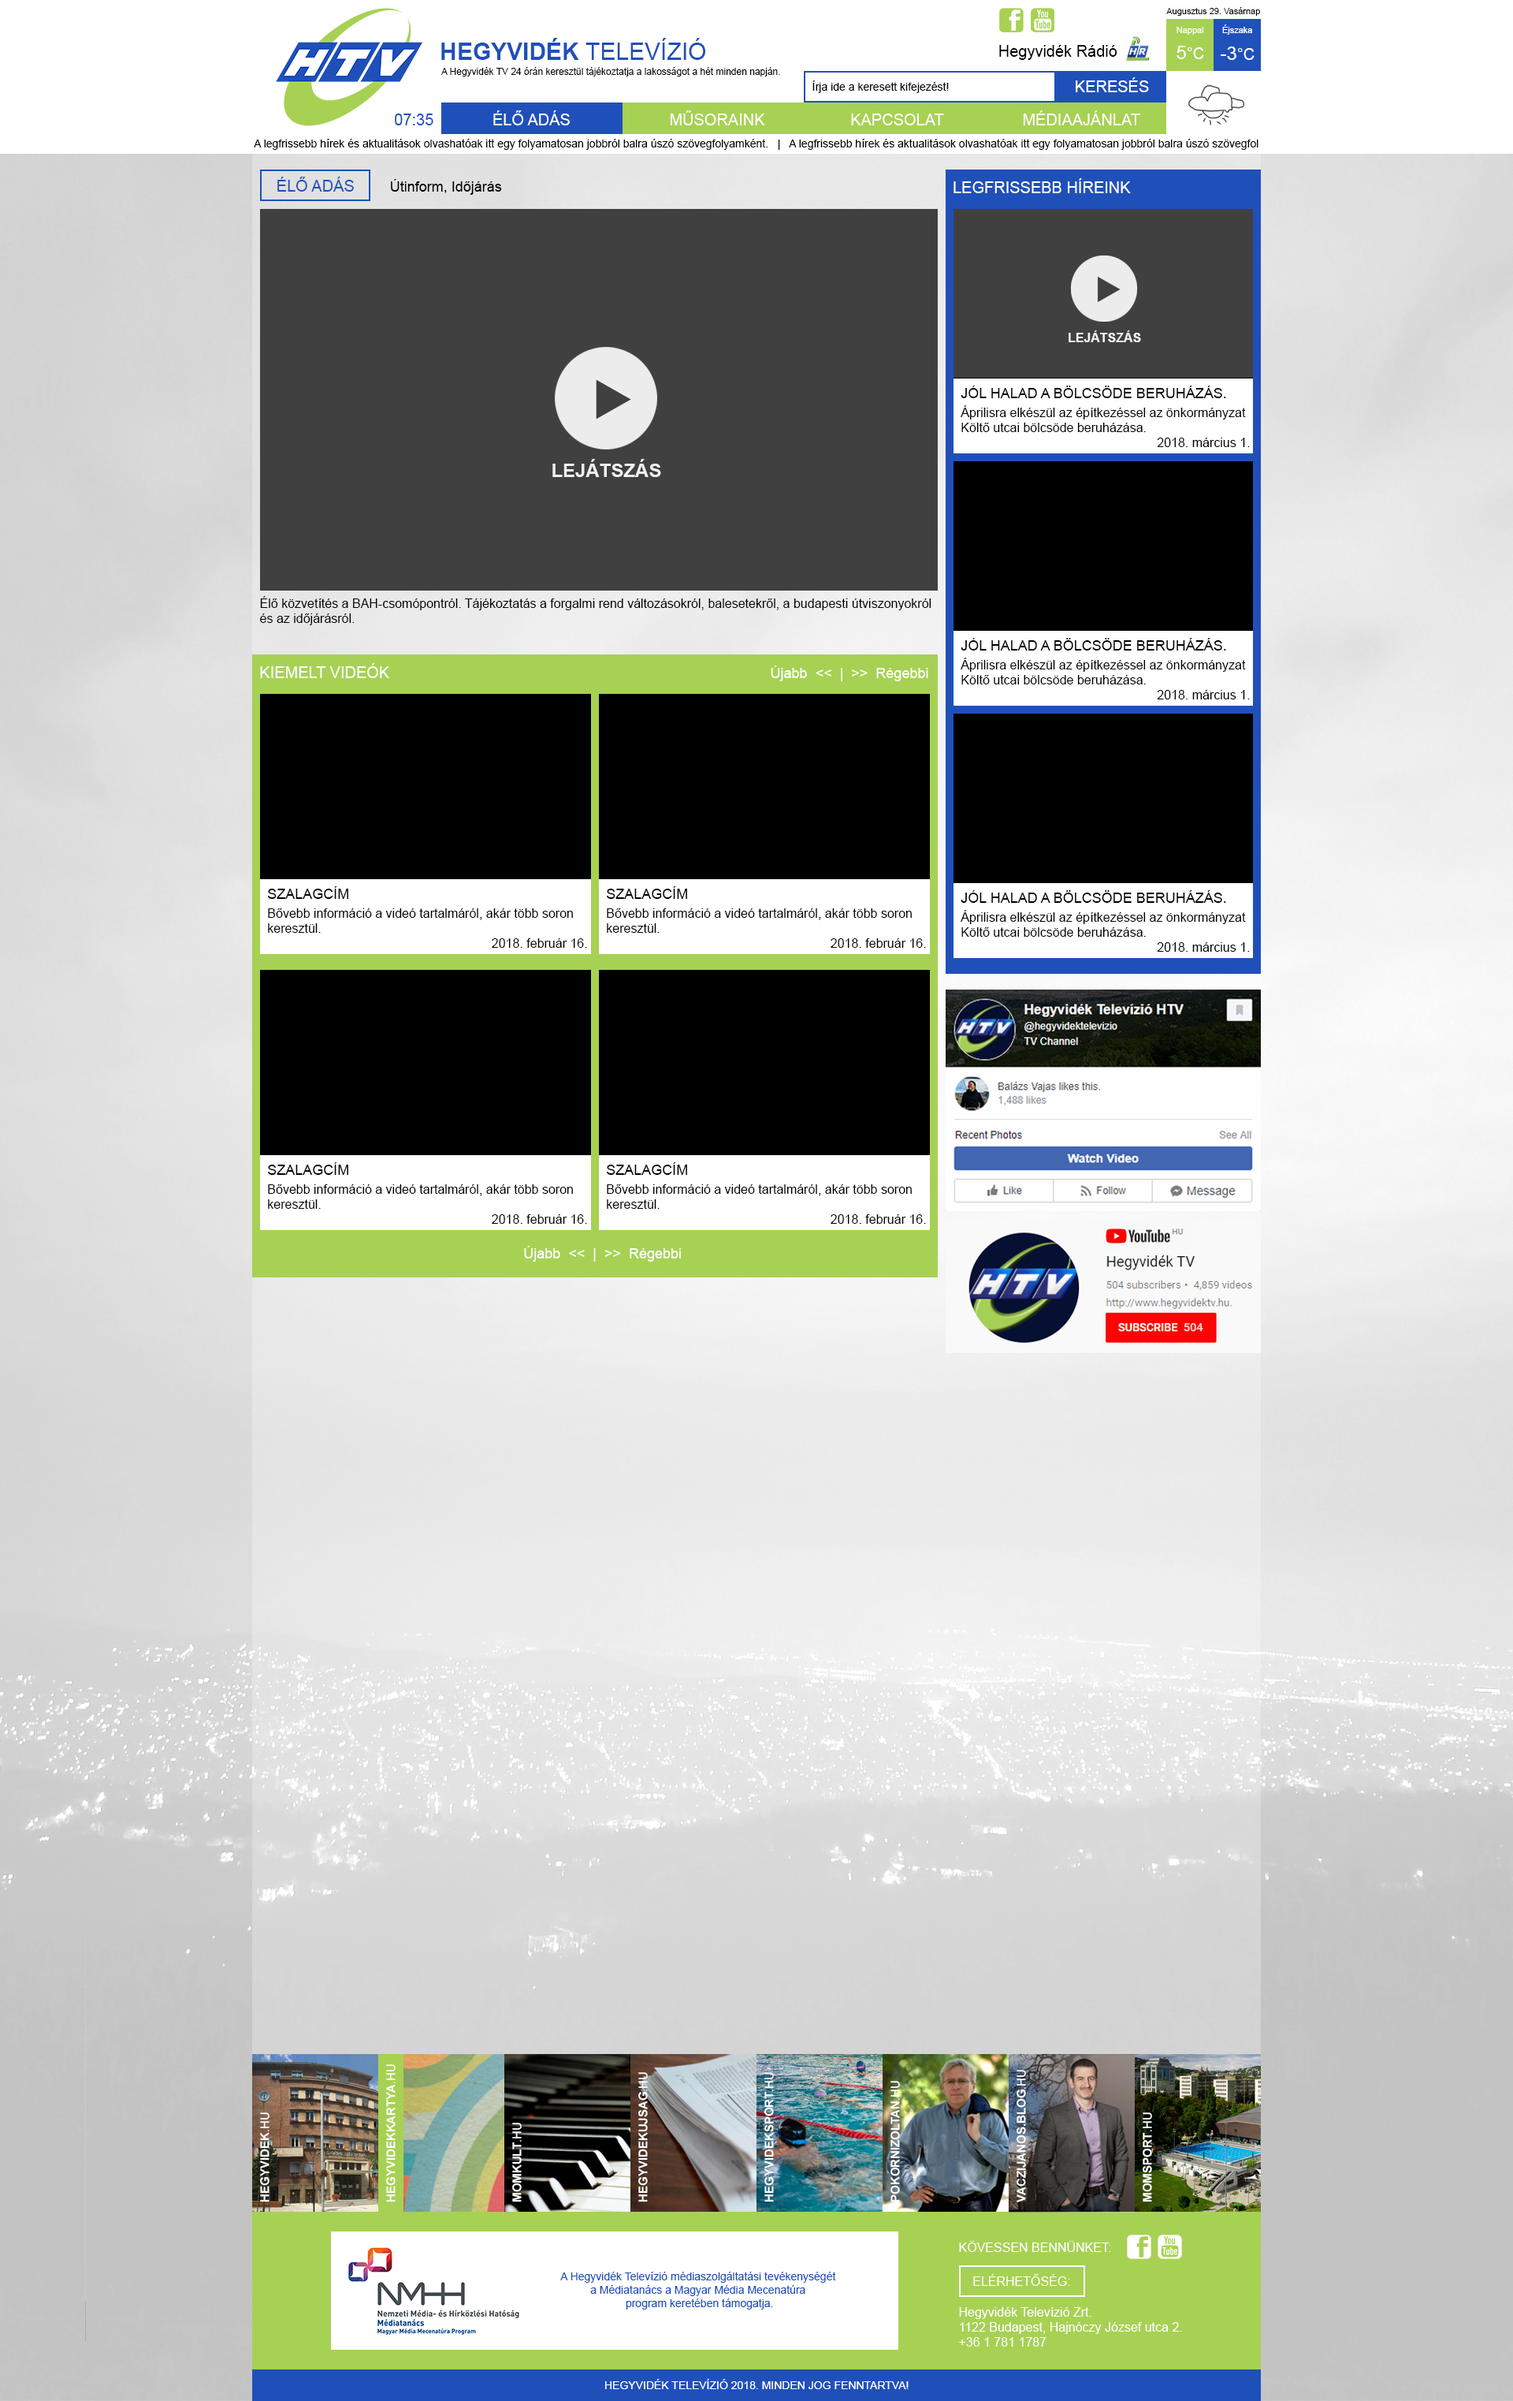
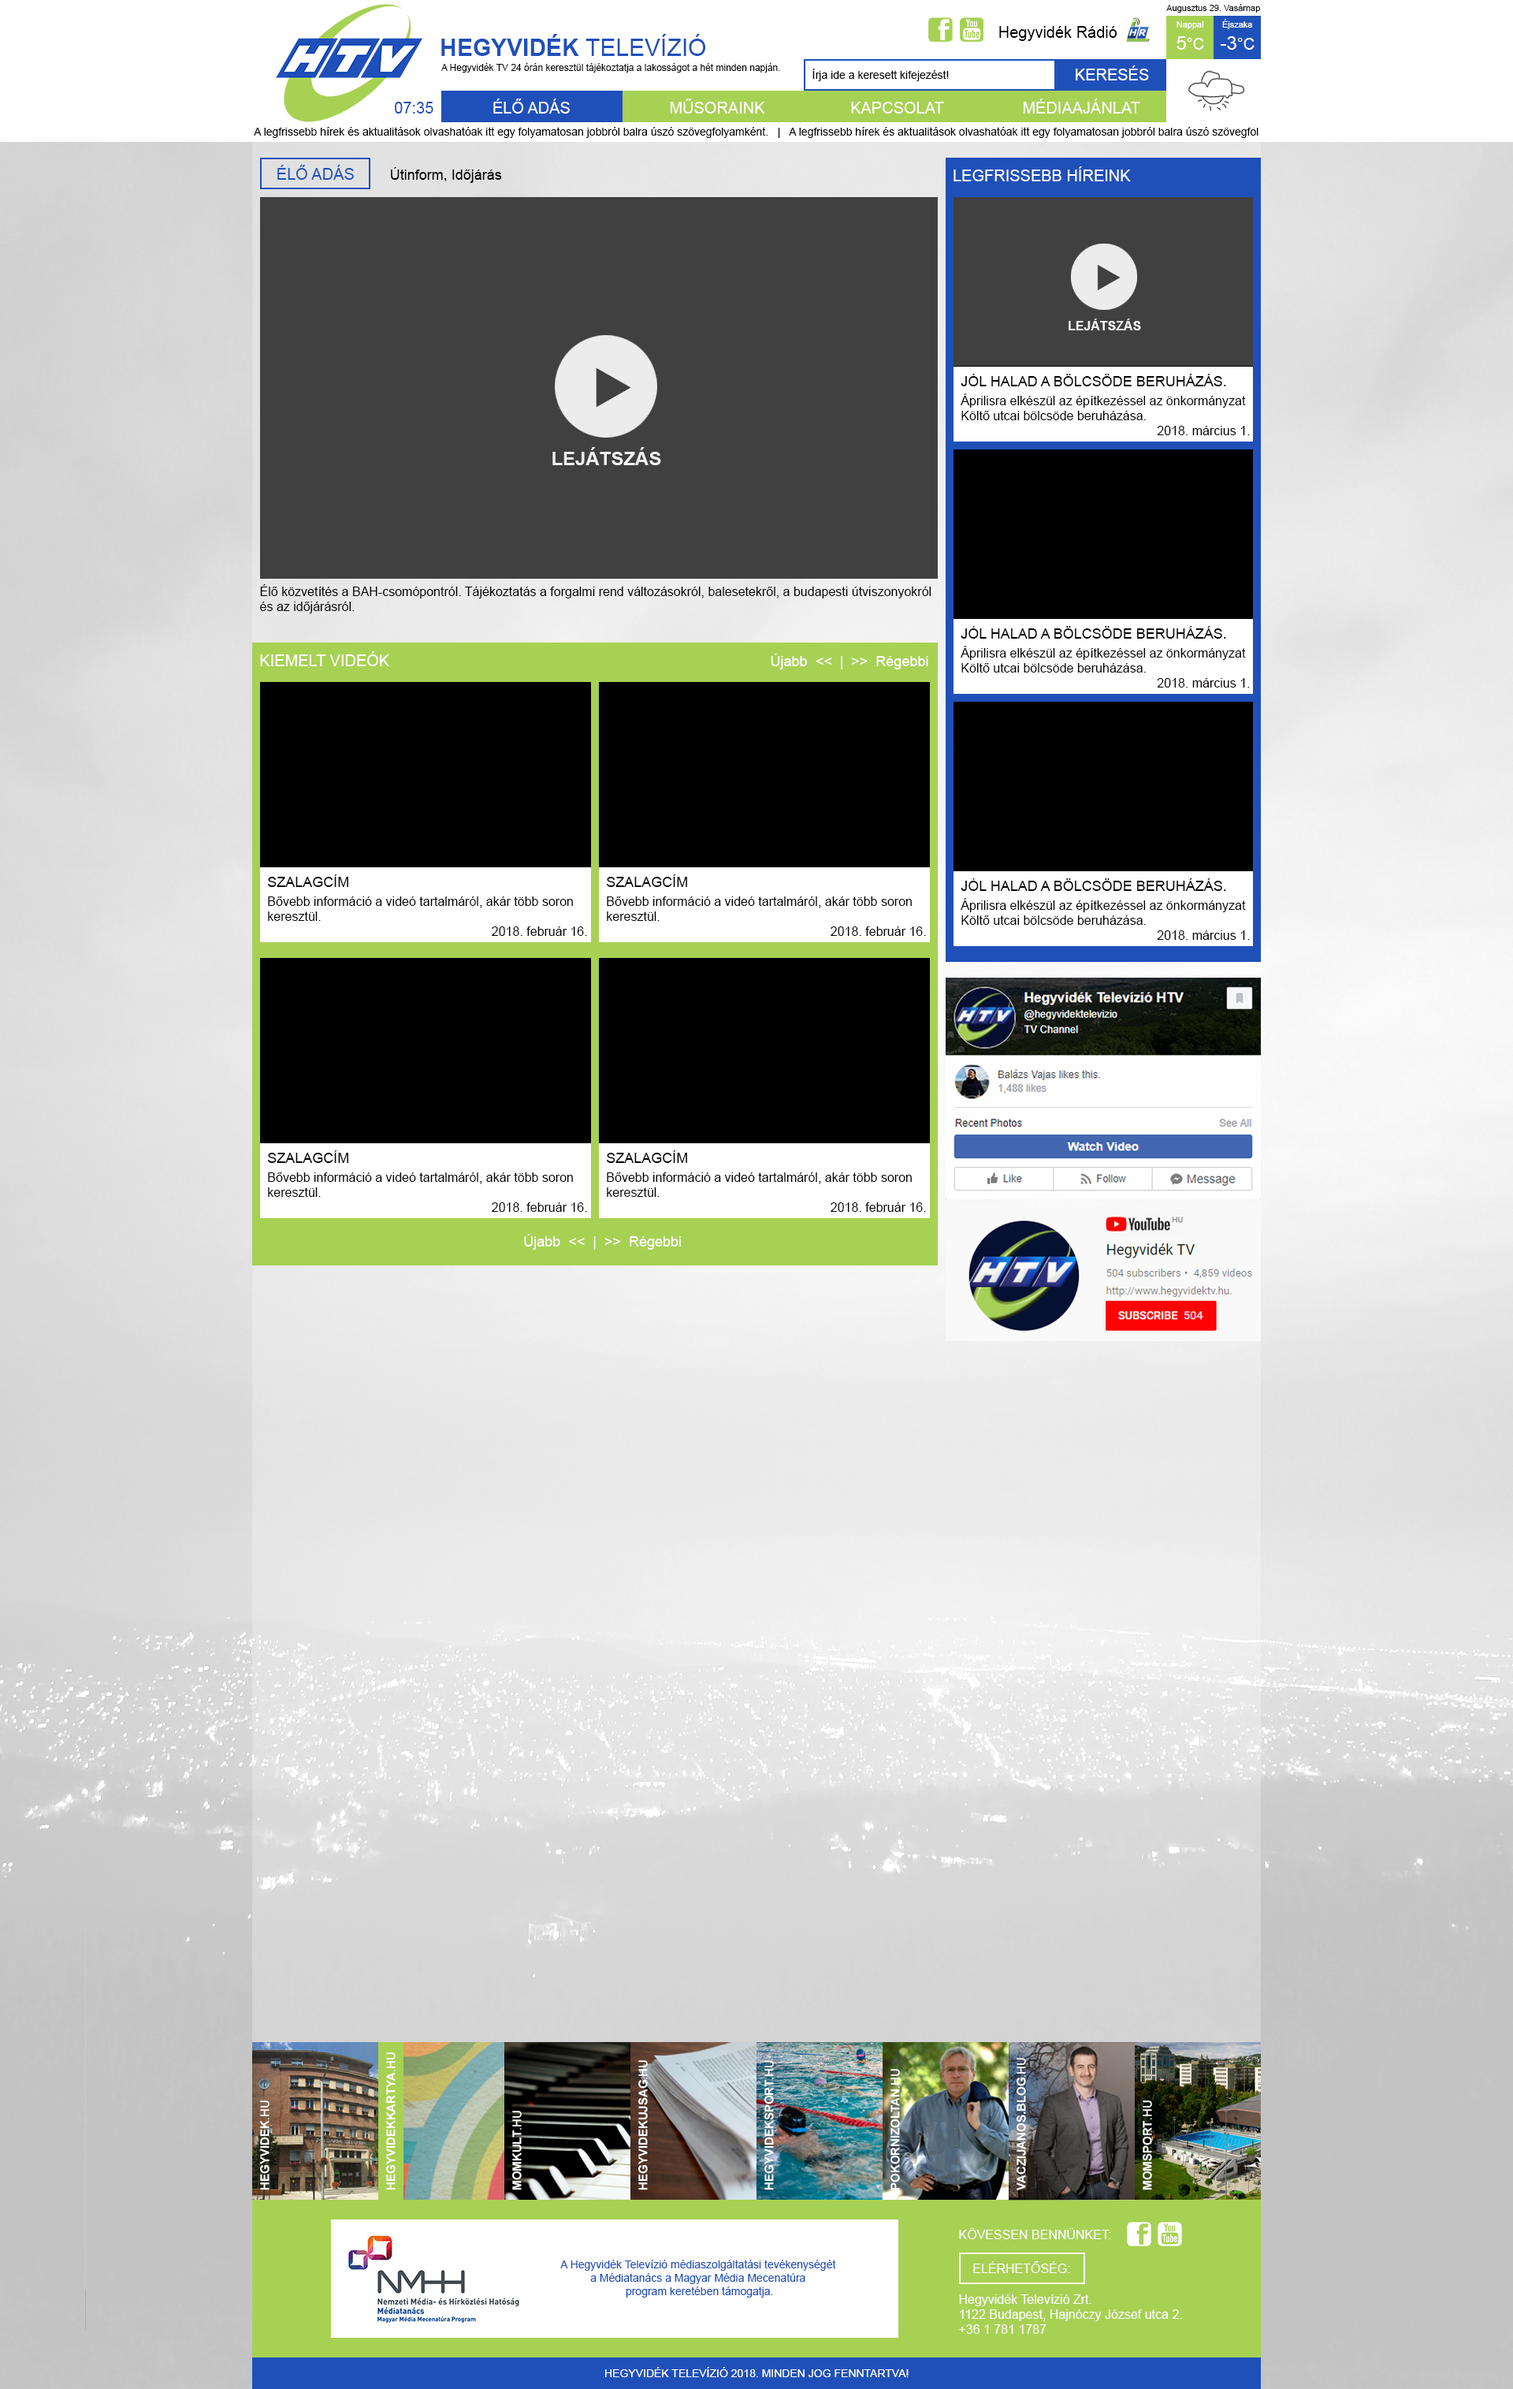
design adjustments

diff --git a/client/HegyvidekTVClient/src/app/header/header.component.html b/client/HegyvidekTVClient/src/app/header/header.component.html
@@ -10,21 +10,17 @@
           <h2>A Hegyvidék TV 24 órán keresztül tájékoztatja a lakosságot a hét minden napján.</h2>
         </div>
         <div class="linkek">
-          <div class="social">
-            <a href="{{facebookLink}}"><div class="facebook"></div></a>
-            <!-- <div class="facebook-like">
-              <div class="fb-like" data-href="https://www.facebook.com/hegyvidektelevizio/" data-width="115" data-layout="button_count" data-action="like" data-size="large" data-show-faces="false" data-share="false"></div>
-            </div> -->
-            <a class="youtube-link" href="{{youtubeLink}}"><div class="youtube"></div></a>
-            <!-- <div class="yt-subscribe">
-              <div class="g-ytsubscribe" data-channel="hegyvidektv" data-layout="default" data-count="default"></div>
-            </div> -->
-          </div>
-          <div class="hegyvidek-radio">
-            <p class="radio">Hegyvidék Rádió</p>
-            <a href="http://www.hegyvidekradio.hu/">
-              <img class="hegyvidekradio-kep" src="./assets/images/hegyvidek-radio.jpg" alt="Hegyvidék Rádió">
-            </a>
+          <div class="social-radio">
+            <div class="social">
+              <a href="{{facebookLink}}"><div class="facebook"></div></a>
+              <a class="youtube-link" href="{{youtubeLink}}"><div class="youtube"></div></a>
+            </div>
+            <div class="hegyvidek-radio">
+              <p class="radio">Hegyvidék Rádió</p>
+              <a href="http://www.hegyvidekradio.hu/">
+                <img class="hegyvidekradio-kep" src="./assets/images/hegyvidek-radio.jpg" alt="Hegyvidék Rádió">
+              </a>
+            </div>
           </div>
           <div class="kereses">
             <input class="kereses input" type="text" placeholder="Írja ide a keresett kifejezést!">

diff --git a/client/HegyvidekTVClient/src/app/header/header.component.css b/client/HegyvidekTVClient/src/app/header/header.component.css
@@ -1,6 +1,6 @@
 header {
     width: 100%;
-    height: 195px;
+    height: 180px;
     display: flex;
     flex-direction: column;
     align-items: center;
@@ -34,7 +34,7 @@ time.pontosido {
 
 .container {
     width: 1280px;
-    height: 200px;
+    height: 155px;
     display: flex;
     justify-content: space-between;
 }
@@ -75,8 +75,8 @@ time.pontosido {
 .social {
     display: flex;
     /* justify-content: flex-end; */
-    margin-left: 50%;
-    padding-left: 10px;
+    /* margin-left: 50%; */
+    /* padding-left: 10px; */
 }
 
 .facebook-like, .yt-subscribe {
@@ -99,23 +99,20 @@ time.pontosido {
     display: flex;
     /* justify-content: flex-end; */
     align-items: center;
-    margin-left: 50%;
-    padding-left: 10px;
-    padding-bottom: 5px;
+    /* margin-left: 50%; */
+    padding-left: 20px;
+    /* padding-bottom: 5px; */
 }
 
 img.hegyvidekradio-kep {
     padding-left: 10px;
-}
-
-.hegyvidek-radio:hover {
-    opacity: 0.75;
+    padding-right: 20px;
 }
 
 p.radio {
     font-size: 20px;
     color: black;
-    /* padding-bottom: 15px; */
+    padding-top: 10px;
 }
 
 .kereses {
@@ -148,15 +145,15 @@ p.radio {
     border-radius: unset;
 }
 
-.kereses.button:hover {
-    color: #1f50ba;
-    border: 2px solid #1f50ba;
-    border-left: unset;
-    background-color: white;
-}
-
 .linkek {
     width: 50%;
+}
+
+.social-radio {
+    display: flex;
+    justify-content: flex-end;
+    align-items: center;
+    flex: 1;
 }
 
 .also {
@@ -185,7 +182,7 @@ h2 {
 }
 
 .hirek-scroller {
-    height: 20px;
+    height: 25px;
     width: 1280px;
     color: black;
 }

diff --git a/client/HegyvidekTVClient/src/app/social-media/social-media.component.html b/client/HegyvidekTVClient/src/app/social-media/social-media.component.html
@@ -1,5 +1,5 @@
 <div class="facebook-feed">
-    <div class="fb-page" data-href="https://www.facebook.com/hegyvidektelevizio" data-tabs="timeline,messages,events" data-width="400" data-height="400" data-small-header="false" data-adapt-container-width="true" data-hide-cover="false" data-show-facepile="true"><blockquote cite="https://www.facebook.com/hegyvidektelevizio" class="fb-xfbml-parse-ignore"><a href="https://www.facebook.com/hegyvidektelevizio">Hegyvidék Televízió HTV</a></blockquote></div>
+    <div class="fb-page" data-href="https://www.facebook.com/hegyvidektelevizio" data-tabs="timeline" data-width="400" data-height="215" data-small-header="false" data-adapt-container-width="true" data-hide-cover="false" data-show-facepile="true"><blockquote cite="https://www.facebook.com/hegyvidektelevizio" class="fb-xfbml-parse-ignore"><a href="https://www.facebook.com/hegyvidektelevizio">Hegyvidék Televízió HTV</a></blockquote></div>
 </div>
 
 <div class="youtube-sub">

diff --git a/client/HegyvidekTVClient/src/app/app.component.ts b/client/HegyvidekTVClient/src/app/app.component.ts
@@ -1,11 +1,20 @@
-import { Component } from '@angular/core';
+import { Component, OnInit } from '@angular/core';
+import { Router, NavigationEnd } from '@angular/router';
 
 @Component({
   selector: 'app-root',
   templateUrl: './app.component.html',
   styleUrls: ['./app.component.css']
 })
-export class AppComponent {
-  title = 'app';
+export class AppComponent implements OnInit {
+  constructor(private router: Router) { }
 
+  ngOnInit() {
+      this.router.events.subscribe((evt) => {
+          if (!(evt instanceof NavigationEnd)) {
+              return;
+          }
+          window.scrollTo(0, 0);
+      });
+  }
 }

diff --git a/client/HegyvidekTVClient/src/app/idojaras/idojaras.component.html b/client/HegyvidekTVClient/src/app/idojaras/idojaras.component.html
@@ -16,7 +16,7 @@
     </div>
     <div class="ikon">
         <img src="https://openweathermap.org/img/w/{{ idojaras?.list[0].weather[0].icon }}.png" 
-            title="Holnap: {{ Math.round(idojaras?.list[1].temp.day) }} &#8451; / {{ Math.round(idojaras?.list[1].temp.night) }} &#8451;, {{ idojaras?.list[1].weather[0].description }}">
-        <p class="datum">{{ idojaras?.list[0].weather[0].description }}</p>
+            title="{{ idojaras?.list[0].weather[0].description }}">
+        <!-- <p class="datum">{{ idojaras?.list[0].weather[0].description }}</p> -->
     </div>
 </div>

diff --git a/client/HegyvidekTVClient/src/app/musoraink/musoraink.component.css b/client/HegyvidekTVClient/src/app/musoraink/musoraink.component.css
@@ -9,7 +9,7 @@ section.content {
     flex-direction: column;
     padding: 10px;
     padding-top: 30px;
-    padding-bottom: 30px;
+    padding-bottom: 50px;
     background-color: rgba(255,255,255,0.25);
     margin-top: 195px;
 }
@@ -32,6 +32,7 @@ h2 {
     border: 2px solid #1f50ba;
     text-transform: uppercase;
     margin-bottom: unset;
+    text-align: center;
     padding: 10px 30px;
 }
 
@@ -61,6 +62,7 @@ h2 {
 .musor {
     display: flex;
     padding-bottom: 10px;
+    width: calc(50% - 10px);
 }
 
 .kep {

diff --git a/client/HegyvidekTVClient/src/app/kapcsolat/kapcsolat.component.css b/client/HegyvidekTVClient/src/app/kapcsolat/kapcsolat.component.css
@@ -10,6 +10,7 @@ section.content {
     flex-direction: column;
     color: black;
     padding: 10px 160px;
+    padding-bottom: 60px;
     background-color: rgba(255,255,255,0.25);
     margin-top: 195px;
 }
@@ -46,7 +47,7 @@ p {
 .kapcsolat {
     display: flex;
     justify-content: space-between;
-    padding-top: 10px;
+    padding-top: 20px;
 }
 
 .terkep, .uzenet {
@@ -78,7 +79,7 @@ address {
 
 .email {
     padding-top: 20px;
-    padding-bottom: 40px;
+    /* padding-bottom: 40px; */
 }
 
 p.elerhetoseg {

diff --git a/client/HegyvidekTVClient/src/app/mediaajanlat/mediaajanlat.component.html b/client/HegyvidekTVClient/src/app/mediaajanlat/mediaajanlat.component.html
@@ -76,6 +76,6 @@
           </li>
         </ol>
 
-        <p class="bold">További egyeztetésért, egyedi árajánlat kidolgozásáért kérjük, forduljon hozzánk bizalommal elérhetőségeink valamelyikén!</p>
+        <p class="bold last">További egyeztetésért, egyedi árajánlat kidolgozásáért kérjük, forduljon hozzánk bizalommal elérhetőségeink valamelyikén!</p>
     </section>
 </main>

diff --git a/client/HegyvidekTVClient/src/app/idojaras/idojaras.component.css b/client/HegyvidekTVClient/src/app/idojaras/idojaras.component.css
@@ -17,7 +17,7 @@ p.datum {
 
 .homerseklet {
     width: 100%;
-    height: 65px;
+    height: 55px;
     display: flex;
     color: white;
     text-align: center;
@@ -55,4 +55,14 @@ p.datum {
 
 .ikon {
     height: 80px;
+    display: flex;
+    width: 80px;
+    /* flex: 1; */
+    display: flex;
+    justify-content: center;
+}
+
+img {
+    max-height: 100%;
+    max-width: 100%;
 }

diff --git a/client/HegyvidekTVClient/src/app/home/home.component.css b/client/HegyvidekTVClient/src/app/home/home.component.css
@@ -9,7 +9,7 @@ section.content {
     padding-top: 20px;
     padding-bottom: 60px;
     background-color: rgba(255,255,255,0.25);
-    margin-top: 195px;
+    margin-top: 180px;
 }
 
 section.main {
@@ -18,8 +18,4 @@ section.main {
 
 aside {
     width: 400px;
-}
-
-app-kiemelt-videok {
-    background-color: #a7d153;
 }

diff --git a/client/HegyvidekTVClient/src/app/mediaajanlat/mediaajanlat.component.css b/client/HegyvidekTVClient/src/app/mediaajanlat/mediaajanlat.component.css
@@ -9,6 +9,7 @@ section.content {
     flex-direction: column;
     color: black;
     padding: 10px 160px;
+    padding-bottom: 60px;
     background-color: rgba(255,255,255,0.25);
     margin-top: 195px;
 }
@@ -75,4 +76,8 @@ ul {
 
 ul > li {
     margin-left: 2em;
+}
+
+p.bold.last {
+    padding: unset;
 }

diff --git a/client/HegyvidekTVClient/src/index.html b/client/HegyvidekTVClient/src/index.html
@@ -2,7 +2,7 @@
 <html lang="hu">
 <head>
   <meta charset="utf-8">
-  <title>HegyvidekTVClient</title>
+  <title>Hegyvidék Televízió</title>
   <base href="/">
   <meta name="viewport" content="width=device-width, initial-scale=1">
   <link rel="icon" type="image/x-icon" href="favicon.ico">
